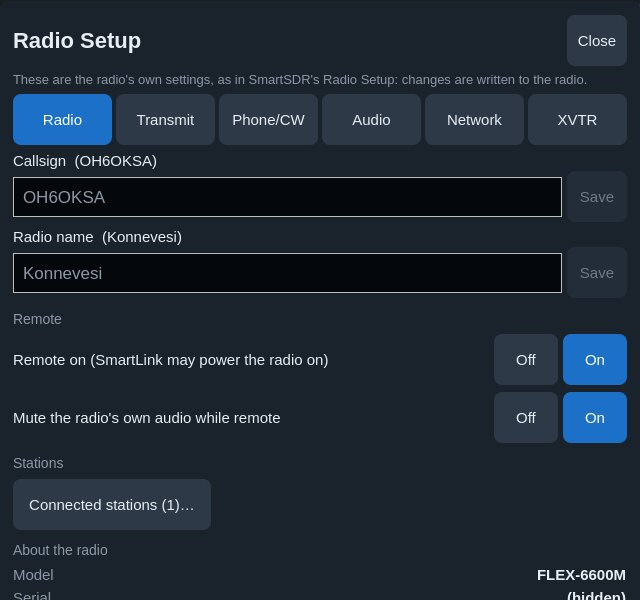
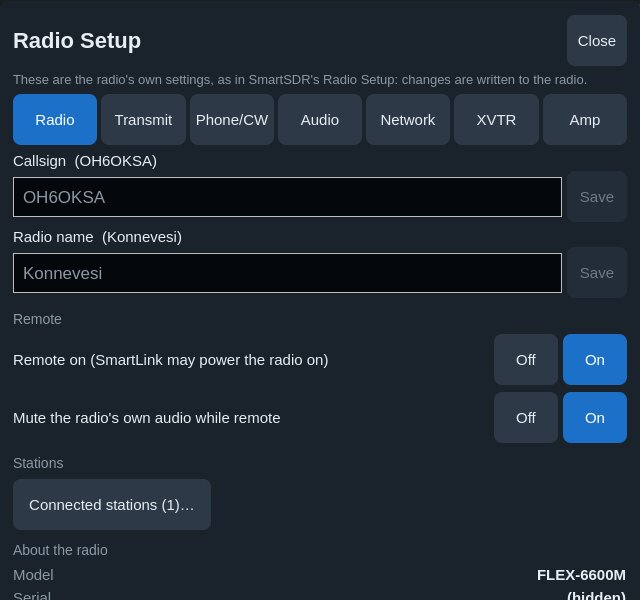
mobile: build 148 / Android beta 61 notes, roadmap, manual, privacy and screenshots: the RF2K-S read only
The manual's Controls › Amp and Radio Setup › Amp with their pictures
(tab-amp, setup-amp: rendered against the stand-in RF2K-S on this
computer's address, transmitting) and two troubleshooting rows; the Radio
Setup picture with its seventh tab. README: the amplifier among the
features and in the status table (tested against a stand-in, to verify on
a real RF2K-S). PRIVACY.md: the amplifier the app reads when an address
is set. The roadmap's step 1 of the amplifier plan and build 148;
TestFlight notes and Android beta 61.

Layout sweep against build 147's: 27 sizes, no layout decision changed,
no QML warnings; build 148's is the new baseline. The Amp tab checked at
13 sizes, fonts 17 and 16.

Claude-Session: https://claude.ai/code/session_01KANojkzU64KoozGDbNDzRK

Changed region(s): [[0.0312, 0.15, 0.9375, 0.24]]

diff --git a/mobile/ROADMAP.md b/mobile/ROADMAP.md
@@ -5,6 +5,8 @@ queued, waiting on someone, or still to verify follows.
 
 ## Next build
 
+Build 148 / beta 61 (the user, 2026-11-02: "tehdään nuo molemmat", the render script fixes and the amplifier's read-only step): the RF-KIT RF2K-S read only (step 1 of the amplifier plan, below): Radio Setup › Amp and the Controls Amp tab, upstream's RfkitConnection in a read-only mode, tested against the stand-in mobile/tools/rf2k-mock.py with every failure (refused, not an RF-KIT, timed out, link lost) and the switch, background and forget paths, never a PUT or POST. To verify: Sebastian Schu DG5CST on his RF2K-S. The render tool: --only NAME,... renders just the pictures named (a minute or two instead of 15-18), update-docs.sh --sweep runs the layout sweep first and once, and the manual's RADE and FT8 runs give the TX slice back (--screenshot quit before the tests' restore; FT8's tuning moved TX too), checked on the FLEX.
+
 Build 147 / beta 60 (the user, 2026-11-02: "Ota 1-3 ja digi välilehden vaihe 2"): PSK31 / PSK63, step 2 of the Digi tab (below), and three things from the user's build 146 tests on the iPad: a macro's Default shows the original in the editor (it closed it, so what came back could not be seen); ⌘1-⌘9, ⌘0 as F1-F10 (the Magic Keyboard has no F-keys; Ctrl on Android; Qt hands ⌘ on as ControlModifier); RTTY's bit clock sampling mid-bit (each edge pulled it toward the bit edges: -3 dB errors 1.3-4.0 % to 0.1-0.6 %, -6 dB 14.8-21.7 % to 8.1-12.6 %, tests/rtty_decoder_weak_signal_test). PSK: PskVaricode / PskEncoder / PskDecoder in the core (tests/psk_roundtrip_test: clean both speeds 6 / 12 / 20 Hz off, PSK31 -10 dB 1.9 %, -12 dB ~17 %, PSK63 -8 dB 1.4 %, a station 100 Hz away left alone, noise alone through the squelch none, AFC holding after the signal); the Digi tab's Mode row, a tap setting the carrier at the signal's centre, AFC, a green band on the display, PSK spots, the macros and field sending on the frequency received, Log as ADIF PSK / PSK31 or PSK63. Live: LZ1AEY's PSK31 CQ decoded on 14.07109 (2026-11-02 ~17:05 local); a QSO attempt found him gone, and the next run met the cabin's power cut (one phase out, the radio and its router unreachable ~17:15-17:50). Then the first PSK31 QSO: our CQ on 14.0705 at 25 W answered by F6FPU (Eric, Roussillon nr Lyon, JN25JI), reports and names exchanged through the tab's macros and field (his report IMD -16 dB, quality 98 % on his over), his 73; the run's over wait missed his final SK (decoded "va"), so the QSO went in by the Log path with its start time (logqso: PSK / PSK31 14.070500, 25 W, name and QTH from QRZ.com, sent to Wavelog). No PSK Reporter reports of the CQ (few receivers report PSK31). Not tested live: the RTTY clock fix (no RTTY on 20 m in the evening); the Digi tab's Log QSO time, which was the moment Log was pressed, now the time the call was picked. Also in 147: Pentti Pärnänen OH6PP's Mac typing (build 146 log: "first responder: none", the app's window not key, so UIKit gave the keys to no one and macOS beeped; typing worked after a text box opened and closed): when a text field takes focus on a Mac with no key routing, the app activates its window as Qt does (key window, its view the first responder), and logs the routing before and after. Not testable here (no Mac): to verify on Pentti's MacBook. Layout sweep against build 146's: 27 sizes, no layout decision changed, no QML warnings (a first run straight after the screenshots, the RADE shot having moved TX to slice C, showed the TX tag's 27 px; run again with TX on A, clean); build 147's is the new baseline. Screenshots refreshed, the manual's PSK31 picture (mode-psk) new; the Digi tab in PSK checked at 360 px and on the iPad. Later for PSK: reporting PSK31 decodes to PSK Reporter, as fldigi does.
 
 Build 146 / beta 59 (2026-11-02, the user: "tee ha push"): RTTY transmit, step 1 of the Digi tab (below): the RTTY tab became Digi, with the calls heard as buttons, eight macros after fldigi's set (F1-F8, press and hold edits, a line showing what a macro sends), Text to send, Stop (Esc) and Log; RttyEncoder (ITA2 with US figures, 45.45 baud CPFSK, 1.5 stop bits, a mark lead and two LTRS) sends AFSK from the TX slice in RTTY, DIGL and DIGU through the FT8 / FT4 path. Switching RTTY / DIGL / DIGU keeps the station tuned in (the dial stayed put, the signal 2.3 kHz off the tones: the user's DIGU test on build 145); calls with long suffixes (OE100OEVSV) among the calls heard; {NAME} only from an operator's first name in the lookup (it sent a club's "AUSTRIAN"). Tested: the encoder against the decoder on both sidebands (10 checks); live at 10 W on 14.0875, RBN skimmers in eight countries decoding the CQs on the mark; the first QSO, OE100OEVSV (Vienna) on 7.0433 at 25 W, answered, worked and logged by the tab's buttons and sent to Wavelog; IT9EJW decoded in RTTY and DIGU on 21.0964. Layout sweep against build 144's (no build 145 sweep was kept): 27 sizes, no layout decision changed, no QML warnings; build 146's sweep is the new baseline. Screenshots refreshed; the manual's Digi tab picture now shows RTTY on, and a new one the calls heard and the macros (RTTY step 3). The manual: Logger32's coming logger32.ini setting for the address it listens on (Juho Kontio, 2026-11-02: a test version from Logger32's developer listens on all networks with it, no port forward; the firewall still needs the port). Not in a released Logger32 yet: the port forward stays the way until then; update the manual when the release has it. To verify: RTTY transmit from an iPhone, an iPad and an Android phone (the audio path is FT8's, verified on devices); F1-F8 and Esc on the iPad's Magic Keyboard.
@@ -669,11 +671,29 @@ full-screen drawer of build 137):
   above 1000 Hz, the Fox's replies) and the SuperFox decoder. *To discuss.*
 
 Amplifiers and the tuner (planned 2026-10-29, its own build; asked by
-Sebastian Schu DG5CST for the RF2K-S and Bill Arcand for the Tuner Genius):
-- Controls gets an **Amp** tab, the twelfth button (kept free in build
-  139's rows of six): the operating side, the state, Operate / Standby,
-  Tune, the meters. Radio Setup's tab below holds the setup (addresses,
-  turning them on).
+Sebastian Schu DG5CST for the RF2K-S, Bill Arcand for the Tuner Genius and
+Dennis Daniel for the FlexRadio amplifier and tuner):
+- **Step 1, the RF2K-S read only (build 148 / beta 61):** RfkitProtocol /
+  RfkitConnection taken from upstream (#6596, tested there on an RF2K-S,
+  firmware G200C267) with their tests, plus a read-only mode (only GET
+  requests reach the wire; the control calls are refused, tested on the
+  loopback stand-in) and a poll period (500 ms on the phone, 3 requests a
+  tick). Radio Setup › **Amp**: the address (host or host:port, 8080 by
+  default), Read the amplifier on / off, Forget. Controls › **Amp**, the
+  13th button, only once an amplifier is set up (rows of seven then): name,
+  OPERATE / STANDBY shown, forward / reflected / SWR bars on the
+  amplifier's scales, temperature, voltage, current, band, frequency,
+  antenna, tuner, interface, status, firmware, the amplifier's error.
+  Read while the app is on screen and connected to a radio. Tested with
+  mobile/tools/rf2k-mock.py (the API's documents, keying cycles; counts
+  any PUT / POST): readings live, refused, not an RF-KIT, timed out, link
+  lost, off and back, background and back, forgotten; 0 writes in every
+  run. Next: Sebastian on his RF2K-S (port 8081), then step 2 (Operate /
+  Standby, antenna, error reset; the gate below).
+- Controls gets an **Amp** tab (the twelfth button went to Digi in build
+  140; the Amp tab is the 13th and shows only when set up): the operating
+  side, the state, Operate / Standby, Tune, the meters. Radio Setup's tab
+  holds the setup (addresses, turning them on).
 - Radio Setup gets an **Amplifier & tuner** tab:
   - **4O3A Power Genius XL**, found through the radio: model, state,
     Operate / Standby (relayed by the radio, so over SmartLink too).

diff --git a/docs/mobile/MANUAL.md b/docs/mobile/MANUAL.md
@@ -924,7 +924,9 @@ them back into the drawer. The buttons are all one size, in rows of six:
 **DSP**, **Audio**, **TX**, **eSSB** (this device's microphone
 processing), **CW**, **View**, **Prof** (profiles), **Mem** (memory),
 **Log**, **FTx** (FT8 / FT4), **FreeDV** (RADE digital voice and FreeDV
-Reporter) and **RTTY**.
+Reporter) and **Digi** (RTTY, PSK31, PSK63). With an amplifier set up
+([Radio Setup › Amp](#9-radio-setup)) an **Amp** tab joins them, in rows
+of seven.
 
 ![iPad in portrait with the controls pinned under the display](manual/ipad-portrait.jpg)
 
@@ -1415,6 +1417,30 @@ Reporter) and **RTTY**.
   The text also runs along the top of the waterfall, where a tap opens the
   receive settings over the display.
 
+- **Amp** — an RF-KIT **RF2K-S** amplifier, read over its own network
+  interface (its REST API), once its address is set in
+  [Radio Setup › Amp](#9-radio-setup). **Read only in this version**: the
+  tab shows what the amplifier reports and sends nothing that changes it.
+
+  ![Amp tab](manual/tab-amp.jpg)
+
+  At the top the amplifier's name and its state, **OPERATE** (red) or
+  **STANDBY**, as the amplifier reports it (shown, not a button), and the
+  link: *Read from 192.168.1.60:8080, every half second*, *Connecting…*,
+  or *not reached* with the reason (the app keeps trying every 5 s). Then
+  **Forward** (0-1600 W) and **Reflected** (0-200 W) power and **SWR**
+  (red from 2:1; held at – in receive), on the amplifier's own scales; the
+  PA's **Temperature**, **Voltage** and **Current**; the **Band** and
+  **Frequency** the amplifier is on; the active **Antenna** (1-4, EXT for
+  the external one); the **Tuner** (mode and network); the **Interface**
+  the amplifier follows the radio with (UNIV, CAT, UDP or TCI); its
+  **Status** text and **Firmware**. An error the amplifier reports shows in
+  red under them. A reading not received yet shows as –, never 0.
+
+  The amplifier is read while the app is on screen and connected to a
+  radio, and stops in the background. Operate / Standby, the antenna and
+  the error reset will come once tested on a real RF2K-S.
+
 ## 9. Radio Setup
 
 **Setup** in the top row (on an iPhone: **⋯** → *Radio Setup*) holds the
@@ -1447,6 +1473,16 @@ radio.
   max power (dBm of drive to the transverter at its IF, kept within what the
   radio allows) and *Receive only*; *Remove* deletes it. The radio says when
   a transverter is valid.
+- **Amp** — not a setting of the radio: the amplifier this device reads
+  for the [Amp tab](#8-controls), kept on this device. **RF-KIT RF2K-S**:
+  its **Address** (the IP address or host name of the amplifier's network
+  port, `:port` after it when not 8080) with *Save*; **Read the amplifier**
+  on or off; the link's state; *Forget the amplifier* removes it and the
+  Amp tab. This device reaches the amplifier directly: on the same network,
+  or over your VPN when away — not through the radio, and not over
+  SmartLink. Read only in this version.
+
+  ![Radio Setup › Amp](manual/setup-amp.jpg)
 
 **A new radio.** When the app connects to a radio that has no callsign yet —
 a new or reset radio — it offers *Set up* once, a few seconds after
@@ -1478,6 +1514,8 @@ Notices and refusals pop up in the middle of the display; tap one, or wait
 | *Set the radio's callsign first* / *The DX cluster needs a callsign* | FT8 / FT4, or the DX cluster, needs a callsign | Setup → Radio → Callsign (the DX cluster can also take one under Spots) |
 | *The radio takes transmit audio from its … input* | PTT would send the radio's own microphone | Controls → TX → **Use this device's microphone** |
 | *The 3D view was too slow …* / *The app stopped while the 3D view was on …* | The app went back to the 2D waterfall | View → 3D to try again |
+| Amp: *not reached: Connection refused* or *timed out* | Nothing answers at the amplifier's address and port from this device | Check the address (Radio Setup › Amp) and the port (8080 unless changed on the amplifier); away from home the VPN must be up; on an iPhone, iPad or Mac allow Local Network for OksaSDR |
+| Amp: *Not an RF-KIT amplifier* | Something else answered at that address (a router, another web page) | Check the amplifier's address and port |
 
 ## 11. Keyboard and Apple Pencil
 

diff --git a/mobile/android/RELEASE_NOTES.md b/mobile/android/RELEASE_NOTES.md
@@ -1,6 +1,9 @@
-**OksaSDR for Android — beta 60.** A FlexRadio client for Android phones and tablets, built on the [AetherSDR](https://github.com/aethersdr/AetherSDR) engine: the same app as on the iPhone and iPad (TestFlight), from the same code.
+**OksaSDR for Android — beta 61.** A FlexRadio client for Android phones and tablets, built on the [AetherSDR](https://github.com/aethersdr/AetherSDR) engine: the same app as on the iPhone and iPad (TestFlight), from the same code.
 
-### New in beta 60
+### New in beta 61
+- **Amplifier, read only (first step): an RF-KIT RF2K-S** over its own network port (its REST API; thanks Sebastian DG5CST). Enter its address in Radio Setup › **Amp** (the IP address or host name, `:port` after it when not 8080), and Controls gets an **Amp** tab with what the amplifier reports, twice a second: **OPERATE** / **STANDBY**, forward and reflected power and SWR on the amplifier's own scales, the PA's temperature, voltage and current, band and frequency, tuner, antenna, interface, status and an error if it reports one. The phone reaches the amplifier directly, on the same network or over your VPN (not through the radio, not over SmartLink), only while the app is on screen and connected to a radio. Nothing is sent that changes the amplifier: Operate / Standby, the antenna and the error reset come after a test on a real RF2K-S. Tested against a stand-in of the API: readings, a lost link, a wrong device at the address, a slow answer, the switch off, the app in the background; not one command sent.
+
+### Still new from beta 60
 - **PSK31 and PSK63 on the Digi tab** (the Mode row: RTTY, PSK31, PSK63), in DIGU as the standard has them: tune the slice about a kilohertz below the signals (14.0695 for 14.070-14.073), tap a signal on the display and the decoder goes to it (a green band marks where it listens, with its audio frequency), **AFC** follows it within 25 Hz, −10 / +10 move it by hand. The same calls heard, macros (F1-F8), **Text to send**, **Stop** and **Log QSO** as for RTTY (ADIF PSK with the submode PSK31 / PSK63, on the signal's frequency); text goes out on the frequency received, as fldigi sends, and PSK keeps lower case. A PSK spot puts the tab in PSK and tunes to the signal. The decoder copies PSK31 down to about -12 dB SNR and leaves a station 100 Hz away alone. Tested on the air: a PSK31 QSO at 25 W with F6FPU near Lyon.
 - **Macro keys on a keyboard without F-keys**: Ctrl with 1-9 and 0 works as F1-F10 (⌘ on an iPad's Magic Keyboard) for the Digi macros, the CW memories and the voice keyer.
 - **RTTY reads weak signals better**: the decoder's bit clock samples mid-bit (it drifted toward the bit edges); in tests at -3 dB SNR the errors fell from 1-4 % to under 1 %.

diff --git a/README.md b/README.md
@@ -101,6 +101,13 @@ radio interface, with no computer running alongside.
   there (a green band marks it), AFC follows it, and the same macros, text
   field and Log (ADIF PSK31 / PSK63 on the signal's frequency) work; text
   goes out on the frequency received. A PSK spot tunes to the signal.
+- **Amplifier: RF-KIT RF2K-S, read only** (first step): its address in
+  Radio Setup › Amp, and Controls gets an **Amp** tab with what the
+  amplifier reports over its own network port: Operate / Standby, forward
+  and reflected power, SWR, temperature, voltage, current, band, frequency,
+  tuner, antenna and interface, read twice a second. The phone reaches the
+  amplifier directly (same network or VPN), and nothing is sent that
+  changes it; control comes after a test on a real RF2K-S.
 - **Notch filters (TNF)**: press and hold on the display (or *+ TNF*) for
   a new notch, set its width, depth and permanent and *Add* it, so a stray
   hold adds none; tap one for its settings or remove; drawn through
@@ -314,6 +321,7 @@ landscape and Android pictures are taken from the devices.</sub>
 | CW straight key and paddles on air | ✅ Checked on the FLEX at 10 W: straight key, paddles (elements on time at 30 WPM), iambic A and B squeeze |
 | Transmit lock (SB / OA) | ✅ Checked on the FLEX without transmitting (build 141) |
 | RTTY decoding and sending | ✅ Contest stations decoded live (build 141); DIGL / DIGU decoded live (IT9EJW, SV1EKI); sent at 10 W and decoded by RBN skimmers across Europe (OE9GHV 33 dB, GM0UDL 27 dB) |
+| RF-KIT RF2K-S amplifier (read only) | 🧪 Tested against a stand-in of its REST API (the API upstream tested on an RF2K-S): readings, a lost link, a wrong device, no PUT or POST ever sent; to verify on a real RF2K-S |
 | PSK31 / PSK63 | ✅ PSK31 decoded live (LZ1AEY's CQ on 14.071) and a PSK31 QSO at 25 W with F6FPU near Lyon, answering our first CQ (2026-11-02); the decoder tested to -12 dB SNR, AFC and a neighbour 100 Hz away |
 | CW decoder | ✅ Decodes a strong signal cleanly and weak stations' calls (8–45 WPM, Sens filter against noise) |
 | LAN discovery on iOS | ⏳ Needs Apple's multicast entitlement. Connect by IP for now. |

diff --git a/mobile/PRIVACY.md b/mobile/PRIVACY.md
@@ -11,8 +11,8 @@ through TestFlight and as the Android beta from
 The app collects no personal data. Nothing you do in the app is sent to the
 developer. It connects to a third-party service only when you use a feature
 that needs it (SmartLink, QRZ.com, a DX cluster, PSK Reporter, your own
-Wavelog or Cloudlog logbook, Logger32 on your PC, a time server for FT8 /
-FT4), as listed below.
+Wavelog or Cloudlog logbook, Logger32 on your PC, your amplifier, a time
+server for FT8 / FT4), as listed below.
 
 ## Network use
 
@@ -75,6 +75,11 @@ these services:
   you log is sent with its ADIF fields to Logger32 on that PC (your own
   computer, on your network or through your VPN). QSOs that could not be
   sent wait on the device until they can.
+- **An amplifier** (RF-KIT RF2K-S), only if you enter its address in Radio
+  Setup › Amp: while the app is on screen and connected to a radio it reads
+  the amplifier's state and meters from that address (your own device, on
+  your network or through your VPN). Nothing is sent to it but those
+  requests to read.
 - **Developer link** (Log tab), off unless turned on: for the developer's
   own devices; it sends the app's log, and screenshots when asked, to the
   address set there.
